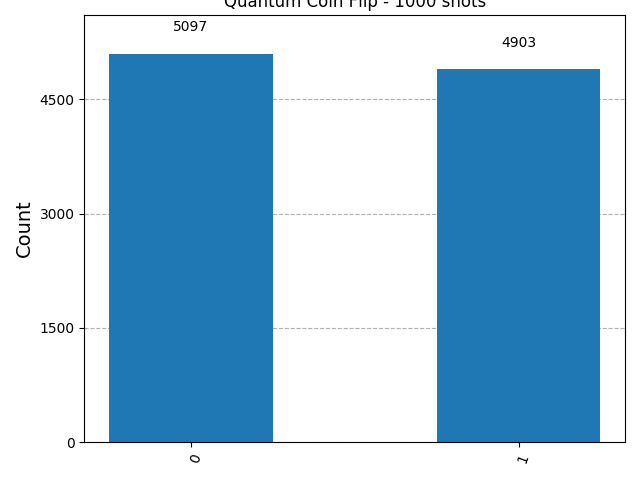
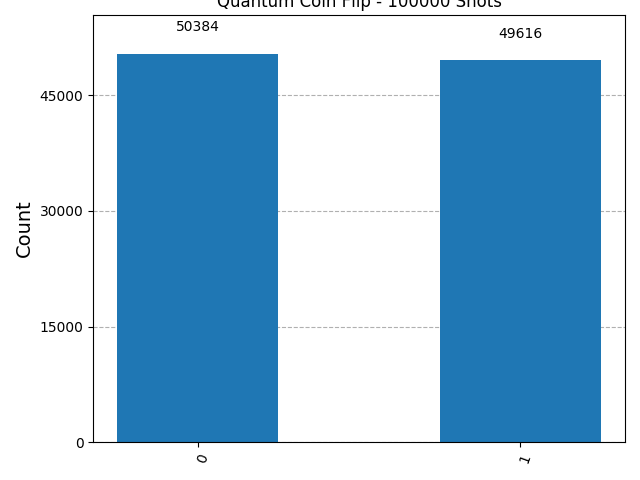
major overhaul and additions

diff --git a/coinflip.py b/coinflip.py
@@ -1,16 +1,35 @@
+"""
+Quantum Coin Flipper
+--------------------
+Simulates a fair coin flip using a single-qubit quantum circuit. 
+A Hadamard gate places the qubit in equal superposition of |0⟩ and |1⟩. 
+Measuring the qubit collapses it to either state with 50% probability.
+
+Circuit: q0--H--M--
+
+Dependencies: qiskit, matplotlib
+"""
 from qiskit import QuantumCircuit
-from qiskit.quantum_info import Statevector
+from qiskit.primitives import StatevectorSampler
 from qiskit.visualization import plot_histogram
 import matplotlib.pyplot as plt
 
-qc = QuantumCircuit(1)
+# build circuit
+qc = QuantumCircuit(1, 1)
 qc.h(0)
+qc.measure(0, 0)
 
-sv = Statevector(qc)
-counts = sv.sample_counts(10000)
+# run it
+shots = int(input("Enter number of shots: 1" ))
+sampler = StatevectorSampler()
+job = sampler.run([qc], shots = shots)
+result = job.result()
+
+# extract counts
+counts = result[0].data.c.get_counts()
+
 print("Results: ", counts)
-
 plot_histogram(counts)
-plt.title("Quantum Coin Flip - 1000 shots")
+plt.title(f"Quantum Coin Flip - {shots} Shots")
 plt.savefig("histogram.png")
 plt.show()

diff --git a/README.md b/README.md
@@ -20,7 +20,7 @@ A histogram showing ~5000 counts for |0⟩ and ~5000 counts for |1⟩.
 ### Sample Output:
 ![Histogram](histogram.png)
 
-In the histogram in the repo the counts are 5097 and 4903 respectively for 10000 shots ran in the program. These numbers approach 5000 each as the number of shots ran increases.
+In the histogram in the repo the counts are 50384 and 49616 respectively for 100000 shots ran in the program. These numbers approach 50000 each as the number of shots ran increases (50/50 chance).
 
 ## Simulation Instead of Hardware
 This project uses Qiskit's statevector simulator - no real quantum hardware is required to run the code.

diff --git a/CHANGELOG.md b/CHANGELOG.md
@@ -1,0 +1,15 @@
+# Changelog
+## v1.1.0 [June 1 2026]
+- migrated to proper Qiskit execution pipeline using StatevectorSampler instead of using sample_counts()
+- added classical register to QuantumCircuit
+- added explicit measurement gate (qc.measure)
+- made number of shots user-configurable via input()
+- fixed plt.title() to use f-string formatting and show correct shot count
+- added module-level docstrings 
+- added inline comments
+
+## v1.0.0 [May 31 2026]
+- initial release
+single-qubit Hadamard circuit
+- Statevector sampling (10000 shots)
+- Histogram output saved as histogram.png
